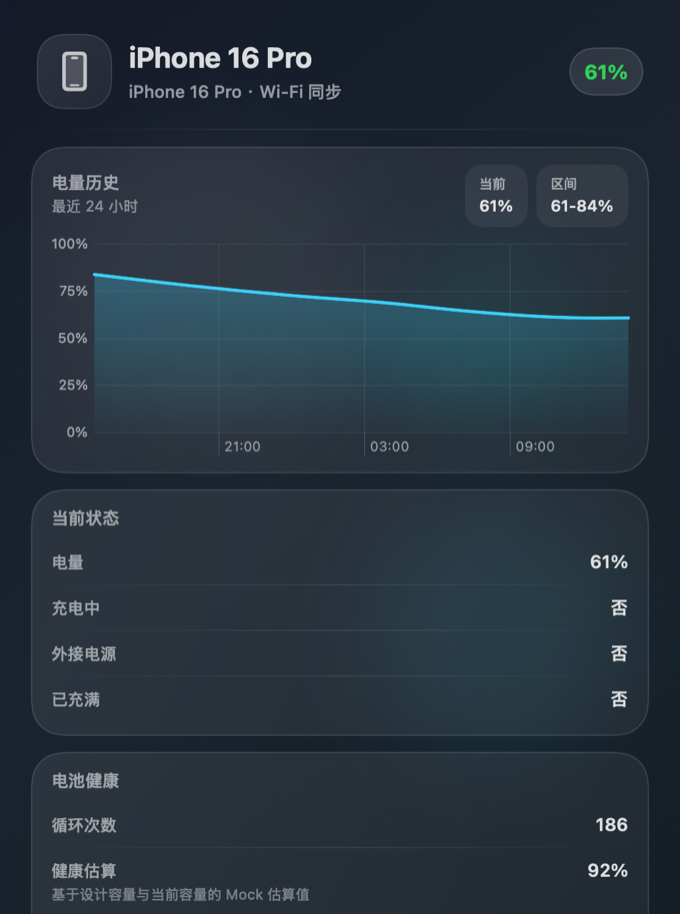
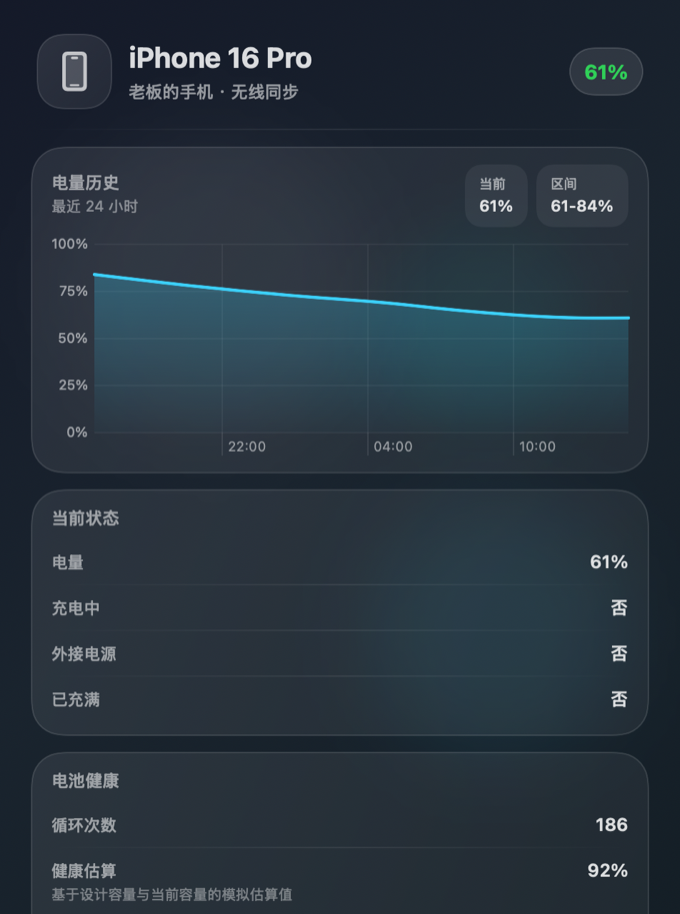
fix: localize device details screenshot export

diff --git a/MagicBattery/Support/MockData.swift b/MagicBattery/Support/MockData.swift
@@ -25,7 +25,7 @@ enum MockData {
             lastUpdated: now.addingTimeInterval(-45),
             externalIdentifier: "00008140-0012345678901234",
             source: .libimobiledeviceNetwork,
-            detailText: "同一 Wi‑Fi 下在线"
+            detailText: "同一无线网络在线"
         ),
         Device(
             id: UUID(uuidString: "C3333333-3333-3333-3333-333333333333")!,
@@ -95,7 +95,7 @@ enum MockData {
 
     static var detailSnapshot: DeviceDetailSnapshot {
         DeviceDetailSnapshot(
-            subtitle: "iPhone 16 Pro · Wi‑Fi 同步",
+            subtitle: "老板的手机 · 无线同步",
             sections: [
                 DeviceDetailSection(
                     id: "current",
@@ -113,7 +113,7 @@ enum MockData {
                     title: "电池健康",
                     items: [
                         DeviceDetailItem(id: "cycle", title: "循环次数", value: "186"),
-                        DeviceDetailItem(id: "health", title: "健康估算", value: "92%", detail: "基于设计容量与当前容量的 Mock 估算值"),
+                        DeviceDetailItem(id: "health", title: "健康估算", value: "92%", detail: "基于设计容量与当前容量的模拟估算值"),
                         DeviceDetailItem(id: "design", title: "设计容量", value: "3274 mAh"),
                         DeviceDetailItem(id: "nominal", title: "当前容量", value: "3010 mAh")
                     ]
@@ -180,4 +180,5 @@ enum MockData {
         defaults.set(true, forKey: "showOfflineIDevices")
         defaults.set(2, forKey: "appearanceMode")
     }
+}
 }

diff --git a/MagicBattery/Support/ScreenshotExporter.swift b/MagicBattery/Support/ScreenshotExporter.swift
@@ -48,6 +48,7 @@ enum ScreenshotExporter {
         let hosted = view
             .frame(width: size.width, height: size.height)
             .environment(\.colorScheme, .dark)
+            .environment(\.locale, Locale(identifier: "zh-Hans"))
 
         let renderer = ImageRenderer(content: hosted)
         renderer.scale = 2
@@ -363,7 +364,7 @@ private struct MockDeviceDetailsView: View {
 
             Spacer()
 
-            Text("README Screenshot")
+            Text("文档预览")
                 .font(.system(size: 11, weight: .semibold))
                 .padding(.horizontal, 12)
                 .padding(.vertical, 8)

diff --git a/MagicBattery/Views/DeviceDetailsSheet.swift b/MagicBattery/Views/DeviceDetailsSheet.swift
@@ -237,9 +237,11 @@ struct DeviceDetailsSheet: View {
 
 struct DeviceHistoryChartCard: View {
     let samples: [BatteryHistorySample]
+    @Environment(\.locale) private var locale
 
     private var isChineseLocale: Bool {
-        Locale.preferredLanguages.first?.lowercased().hasPrefix("zh") == true
+        locale.identifier.lowercased().hasPrefix("zh")
+            || Locale.preferredLanguages.first?.lowercased().hasPrefix("zh") == true
     }
 
     private func localized(_ key: String, zh: String, en: String) -> String {
